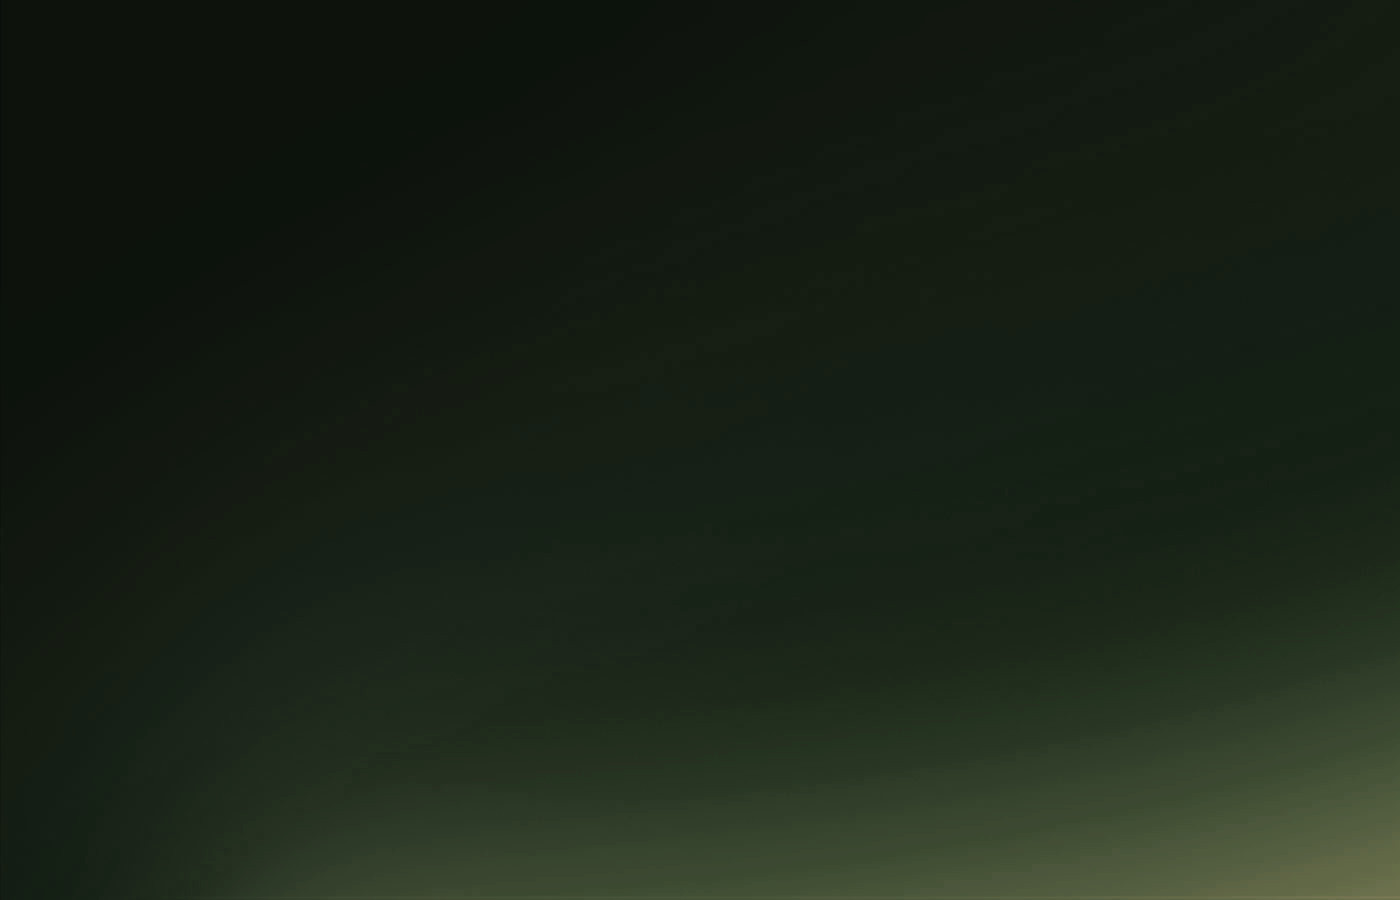
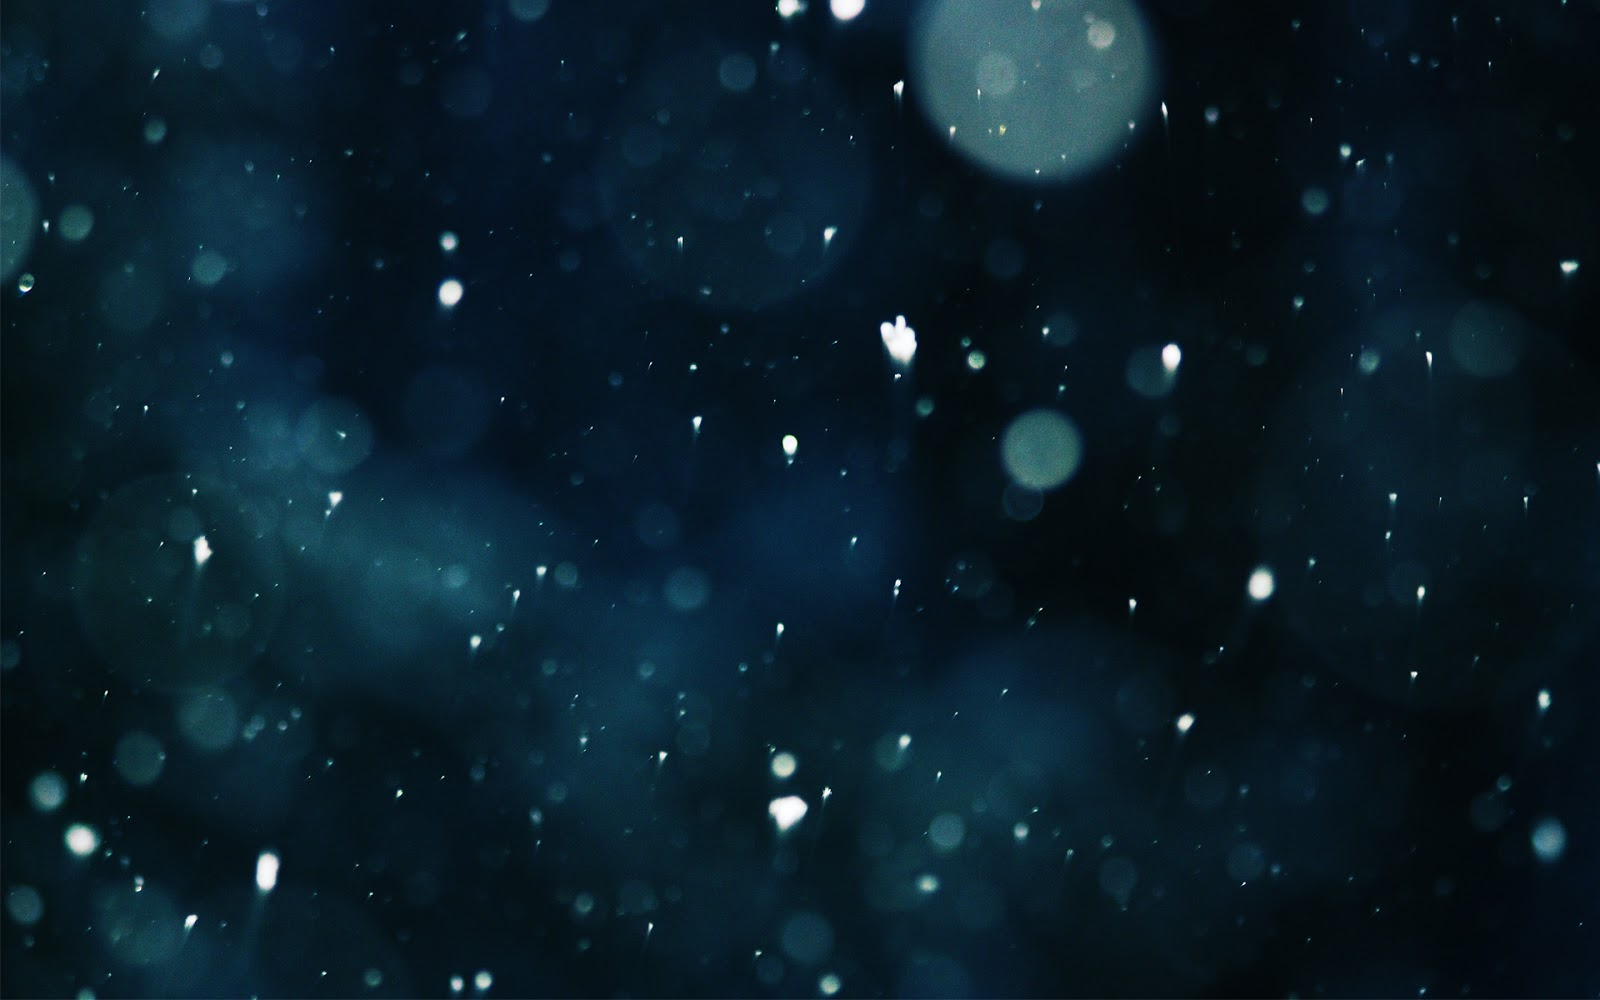
Updated BG

diff --git a/index.html b/index.html
@@ -20,6 +20,16 @@
 			<link rel="stylesheet" href="css/style-desktop.css" />
 			<link rel="stylesheet" href="css/style-noscript.css" />
 		</noscript>
+        <script>
+            (function(i,s,o,g,r,a,m){i['GoogleAnalyticsObject']=r;i[r]=i[r]||function(){
+                (i[r].q=i[r].q||[]).push(arguments)},i[r].l=1*new Date();a=s.createElement(o),
+                    m=s.getElementsByTagName(o)[0];a.async=1;a.src=g;m.parentNode.insertBefore(a,m)
+            })(window,document,'script','//www.google-analytics.com/analytics.js','ga');
+
+            ga('create', 'UA-55006365-1', 'auto');
+            ga('send', 'pageview');
+
+        </script>
         <link rel="stylesheet" href="css/bootstrap-social.css">
 
 		<!--[if lte IE 8]><link rel="stylesheet" href="css/ie/v8.css" /><![endif]-->

diff --git a/css/style.css b/css/style.css
@@ -12,6 +12,7 @@
 /* Basic                                                                         */
 /*********************************************************************************/
 
+
 	body
 	{
 		background-image:			url('images/overlay.png'),		url('images/bg.jpg');
